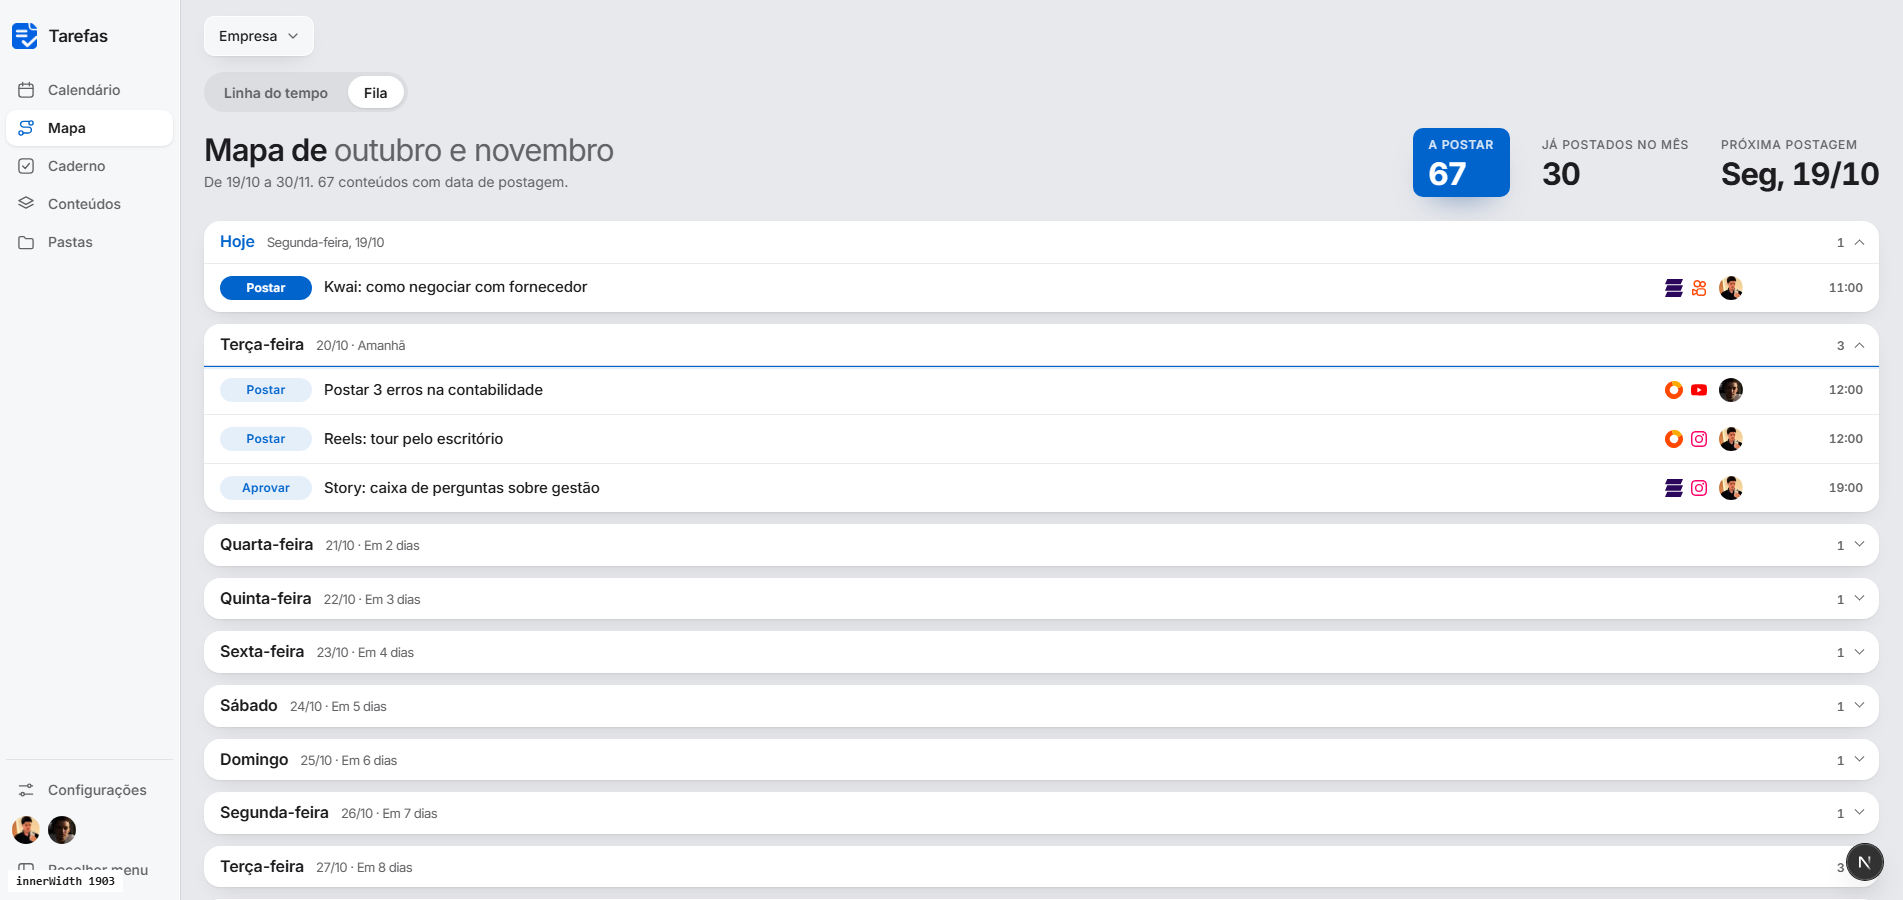
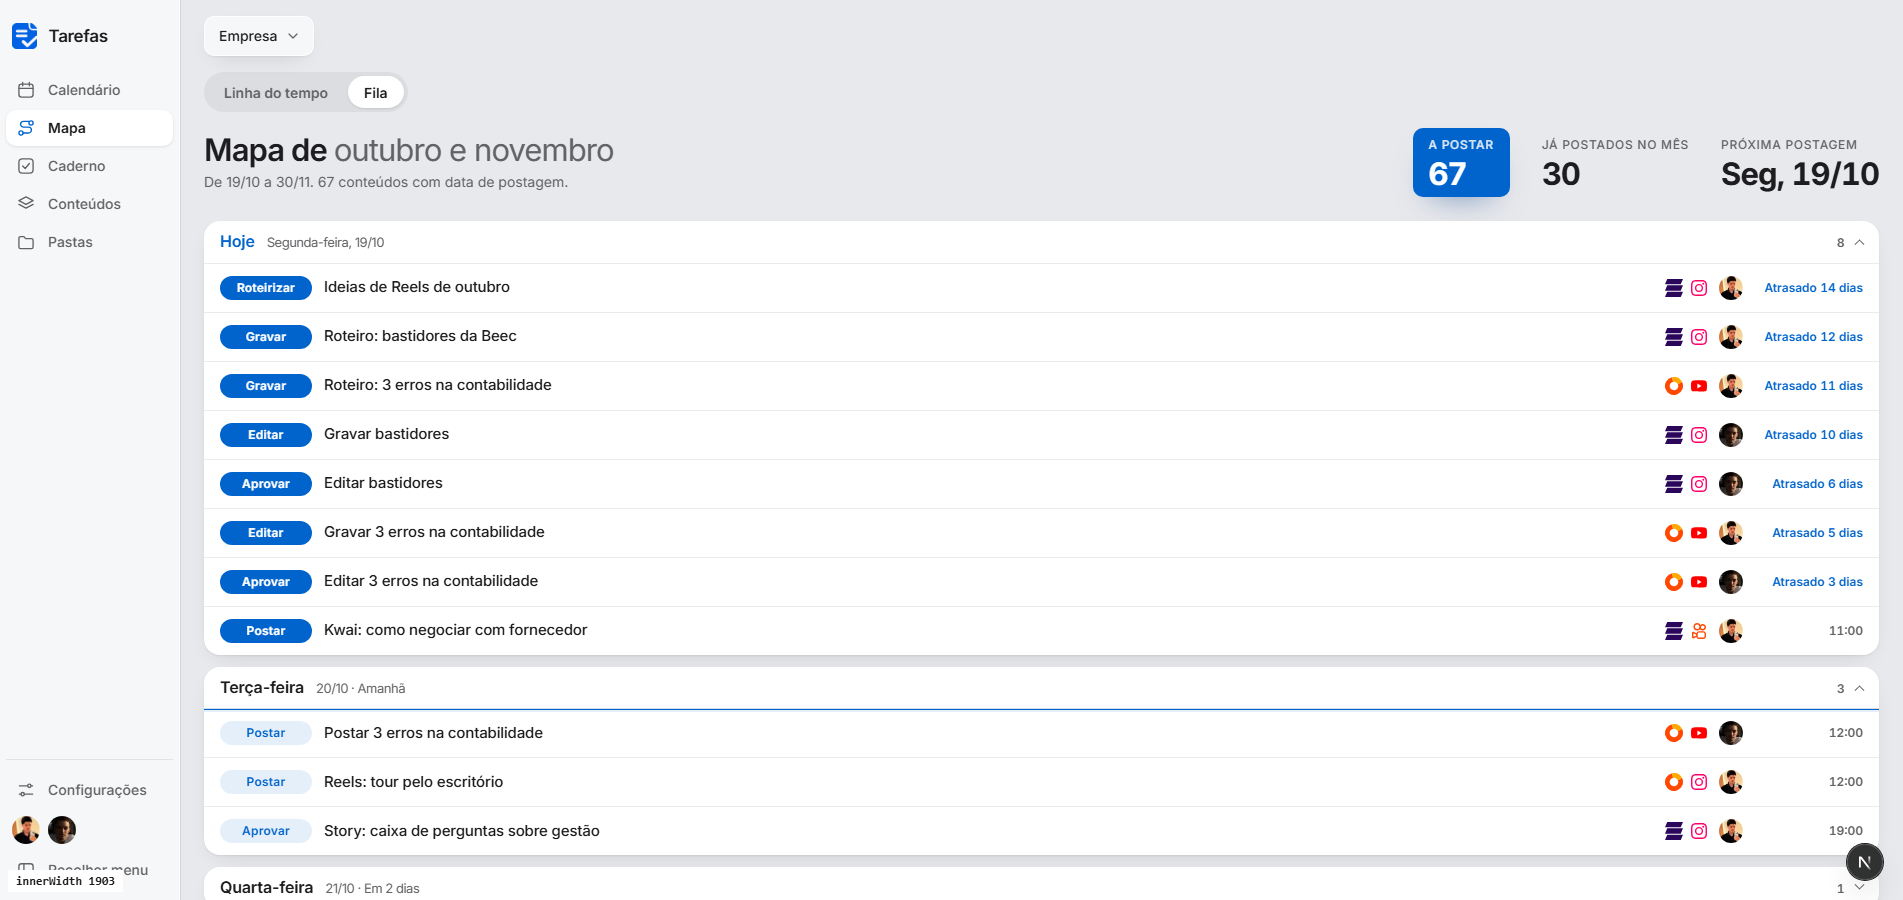
Fila: atrasados reais no topo de hoje, com a mesma regra do Conteúdos (src/lib/atraso.ts); dias seguintes também na ordem da folha (item 115)

Changed region(s): [[0.093, 0.3111, 0.9921, 1.0]]

diff --git a/src/components/conteudos/TelaConteudos.tsx b/src/components/conteudos/TelaConteudos.tsx
@@ -3,10 +3,12 @@
 import { useRef, useState, useSyncExternalStore, type CSSProperties, type PointerEvent } from "react";
 import { Ficha, tarefaEmBranco } from "@/components/ficha/Ficha";
 import { IconeRede, SeloEmpresa } from "@/components/ui/Marca";
+import { TagChip } from "@/components/ui/Tag";
 import { Pessoa } from "@/components/ui/Pessoa";
-import { ETAPAS, salvarTarefa, useEmpresas, useTarefas, type Etapa, type NovaTarefa, type Tarefa } from "@/lib/dados";
+import { ETAPAS, salvarTarefa, useEmpresas, useTags, useTarefas, type Etapa, type NovaTarefa, type Tarefa } from "@/lib/dados";
 import { tomDaEmpresa } from "@/lib/cores-empresa";
 import { useFiltroEmpresa } from "@/lib/filtro-empresa";
+import { diasDeAtraso } from "@/lib/atraso";
 import "./conteudos.css";
 
 const nomes: Record<Etapa, string> = {
@@ -22,8 +24,8 @@ const diaNumero = (texto: string) => { const [a, m, d] = texto.split("-").map(Nu
 /** Quanto falta para a postagem. Conteúdo já postado ou sem data não tem contagem. */
 function prazo(tarefa: Tarefa, hoje: string): { texto: string; tom: "atrasado" | "perto" | "normal" } | null {
   if (!tarefa.inicio || !hoje || tarefa.etapa === "postado") return null;
+  if (diasDeAtraso(tarefa, hoje)) return { texto: "atrasado", tom: "atrasado" };
   const dias = diaNumero(tarefa.inicio.slice(0, 10)) - diaNumero(hoje);
-  if (dias < 0) return { texto: "atrasado", tom: "atrasado" };
   if (dias === 0) return { texto: "hoje", tom: "perto" };
   return { texto: dias === 1 ? "posta amanhã" : `posta em ${dias} dias`, tom: dias <= 2 ? "perto" : "normal" };
 }
@@ -39,6 +41,7 @@ function dataLegivel(inicio?: string) {
 export function TelaConteudos() {
   const tarefas = useTarefas();
   const empresas = useEmpresas();
+  const tags = useTags();
   const { aplicar } = useFiltroEmpresa();
   const [aberta, setAberta] = useState<NovaTarefa | null>(null);
   const [arraste, setArraste] = useState<Arraste | null>(null);
@@ -149,6 +152,11 @@ export function TelaConteudos() {
                       {tarefa.rede && <span className="conteudos-rede"><IconeRede rede={tarefa.rede} tamanho={18} /></span>}
                     </div>
                     <button className="conteudos-titulo" type="button" onClick={() => setAberta(tarefa)}>{tarefa.titulo}</button>
+                    {tarefa.tags?.some((id) => tags.some((g) => g.id === id)) && (
+                      <div className="conteudos-tags">
+                        {tags.filter((g) => tarefa.tags?.includes(g.id)).map((g) => <TagChip key={g.id} tag={g} aprovador={tarefa.aprovador} />)}
+                      </div>
+                    )}
                     <div className="conteudos-cartao-rodape">
                       <Pessoa quem={tarefa.responsavel} tamanho={25} />
                       <time dateTime={tarefa.inicio?.slice(0, 10)}>{dataLegivel(tarefa.inicio)}</time>

diff --git a/src/components/mapa/logica.ts b/src/components/mapa/logica.ts
@@ -1,6 +1,7 @@
 // Mapa: lê as MESMAS tarefas da agenda. Todo conteúdo (tipo "postagem") com data vira um nó. Só a data conta, sem horário.
 import type { Tarefa } from "@/lib/dados";
 import { deTexto, paraDia, somarDias } from "@/components/calendario/logica";
+import { diasDeAtraso } from "@/lib/atraso";
 import { montarGrade } from "@/components/tarefas/grade";
 
 /** Hoje pelo relógio do navegador, em data local (nunca toISOString: em UTC viraria o dia errado à noite no Brasil). */
@@ -48,7 +49,7 @@ export function prazo(dias: number) {
 }
 
 /**
- * Só o que falta postar, um grupo por dia, do mais perto ao mais longe. O grupo de hoje existe sempre (mesmo vazio) e leva
+ * O que falta fazer, um grupo por dia, do mais perto ao mais longe. O grupo de hoje existe sempre (mesmo vazio) e leva
  * no topo o que ficou atrasado. Dentro do dia a ordem é a da folha do Caderno: com horário na linha do horário, sem horário
  * na ordem em que foi criado (a lista chega na ordem de criação, e a ordenação por data é estável).
  */
@@ -56,7 +57,8 @@ export function filaPorDia(lista: readonly Tarefa[], de: string): DiaFila[] {
   const itens = new Map<string, Item>();
   const porDia = new Map<string, Tarefa[]>();
   for (const t of lista) {
-    if (foiPostado(t)) continue;
+    // entra o que vem pela frente (postagem a postar) e todo atrasado, mesmo de antes do período do Mapa (mesma regra do Conteúdos)
+    if (!t.inicio || (!diasDeAtraso(t, de) && (t.tipo !== "postagem" || foiPostado(t)))) continue;
     const etapa = Math.max(0, ETAPAS_ATE_POSTAR.indexOf((t.etapa ?? "ideia") as (typeof ETAPAS_ATE_POSTAR)[number]));
     itens.set(t.id, { t, dias: diasAte(diaDe(t), de), passo: PASSO[ETAPAS_ATE_POSTAR[etapa]] });
     const dia = diaDe(t) < de ? de : diaDe(t); // atrasado cai em hoje
@@ -69,5 +71,5 @@ export function filaPorDia(lista: readonly Tarefa[], de: string): DiaFila[] {
   const dehoje = (porDia.get(de) ?? []).filter((t) => diaDe(t) >= de);
   const pilhaAtraso = [...new Set(atrasadas.map(diaDe))].sort().flatMap((d) => doDia(atrasadas.filter((t) => diaDe(t) === d)));
   porDia.set(de, [...pilhaAtraso, ...doDia(dehoje)]);
-  return [...porDia].sort(([a], [b]) => a.localeCompare(b)).map(([dia, ts]) => ({ dia, dias: diasAte(dia, de), itens: ts.map((t) => itens.get(t.id)!) }));
+  return [...porDia].sort(([a], [b]) => a.localeCompare(b)).map(([dia, ts]) => ({ dia, dias: diasAte(dia, de), itens: (dia === de ? ts : doDia(ts)).map((t) => itens.get(t.id)!) }));
 }

diff --git a/src/components/mapa/logica.test.ts b/src/components/mapa/logica.test.ts
@@ -47,14 +47,16 @@ describe("fila por dia", () => {
     t("velho2", "postagem", "2026-10-18", { etapa: "gravacao" }),
     t("velho1", "postagem", "2026-10-17", { etapa: "gravacao" }),
     t("feito", "postagem", "2026-10-19", { etapa: "postado" }),
+    t("roteiro-velho", "roteiro", "2026-10-07T10:00", { etapa: "roteiro" }), // não é postagem, mas é conteúdo atrasado
+    t("reuniao-velha", "reuniao", "2026-10-07T10:00"), // sem etapa: não é conteúdo
     t("longe", "postagem", "2026-11-30", { etapa: "aprovado" }),
   ];
-  const f = filaPorDia(conteudos(lista), "2026-10-19");
+  const f = filaPorDia(lista, "2026-10-19");
 
   it("um card por dia, hoje primeiro com o atrasado no topo e o postado de fora", () => {
     expect(f.map((g) => [g.dia, g.dias])).toEqual([["2026-10-19", 0], ["2026-10-21", 2], ["2026-11-30", 42]]);
-    expect(f[0].itens.map((i) => i.t.id)).toEqual(["velho1", "velho2"]);
-    expect(f[0].itens.map((i) => i.dias)).toEqual([-2, -1]);
+    expect(f[0].itens.map((i) => i.t.id)).toEqual(["roteiro-velho", "velho1", "velho2"]);
+    expect(f[0].itens.map((i) => i.dias)).toEqual([-12, -2, -1]);
   });
 
   it("no dia: sem horário na ordem de criação (no topo, como na folha), com horário na linha do horário", () => {

diff --git a/src/lib/atraso.ts b/src/lib/atraso.ts
@@ -1,0 +1,9 @@
+import type { Tarefa } from "@/lib/dados";
+
+const diaNumero = (texto: string) => { const [a, m, d] = texto.split("-").map(Number); return Date.UTC(a, m - 1, d) / 86_400_000; };
+
+/** Regra única de "atrasado" (Conteúdos e Fila do Mapa): conteúdo com data já passada e etapa diferente de Postado. Devolve os dias de atraso, 0 = não está atrasado. */
+export function diasDeAtraso(t: Tarefa, hoje: string): number {
+  if (!t.etapa || t.etapa === "postado" || !t.inicio || !hoje) return 0;
+  return Math.max(0, diaNumero(hoje) - diaNumero(t.inicio.slice(0, 10)));
+}

diff --git a/src/components/mapa/TelaMapa.tsx b/src/components/mapa/TelaMapa.tsx
@@ -51,7 +51,7 @@ function Mapa({ inicio: INICIO }: { inicio: string }) {
   const aPostar = marcos.filter((t) => !foiPostado(t));
   const [m1, m2] = [nomeMes(INICIO), nomeMes(dias.at(-1)!)].map((m) => m.toLowerCase());
   const meses = m1 === m2 ? m1 : `${m1} e ${m2}`;
-  const fila = useMemo(() => filaPorDia(todos, INICIO), [todos, INICIO]);
+  const fila = useMemo(() => filaPorDia(aplicar(tarefas), INICIO), [aplicar, tarefas, INICIO]);
   const proximo = aPostar[0]?.inicio?.slice(0, 10);
 
   const topo = (
